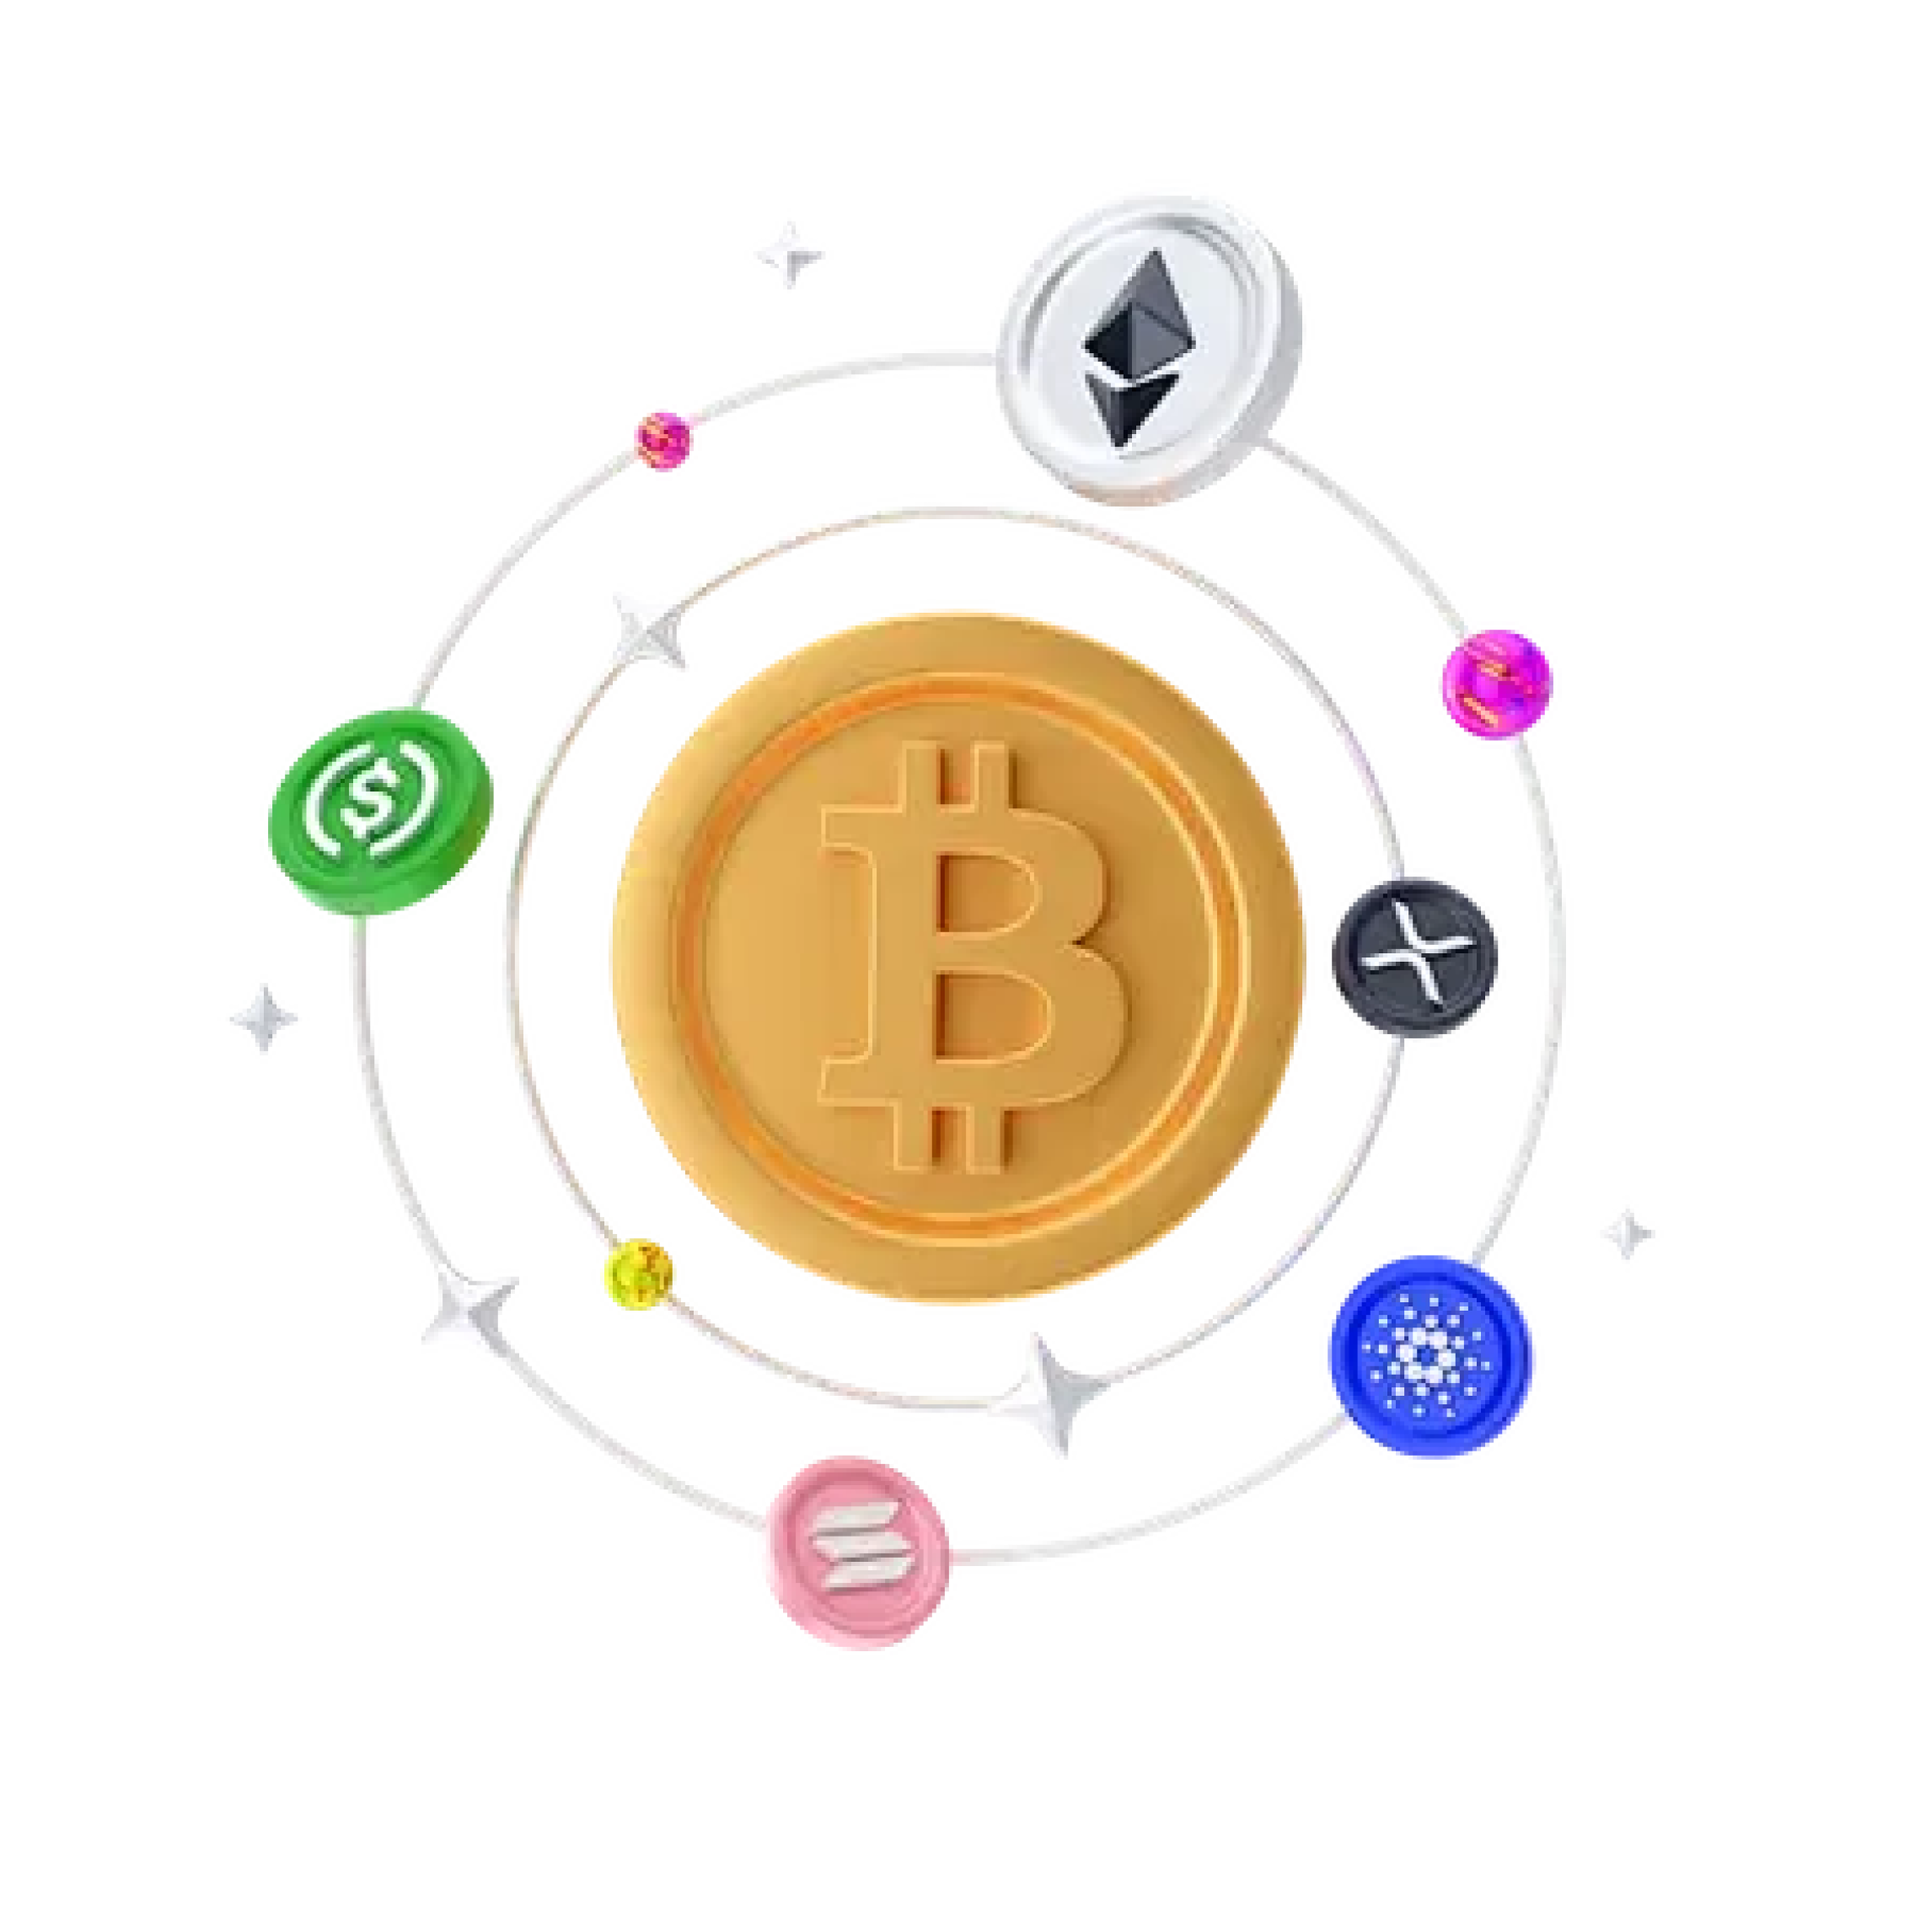
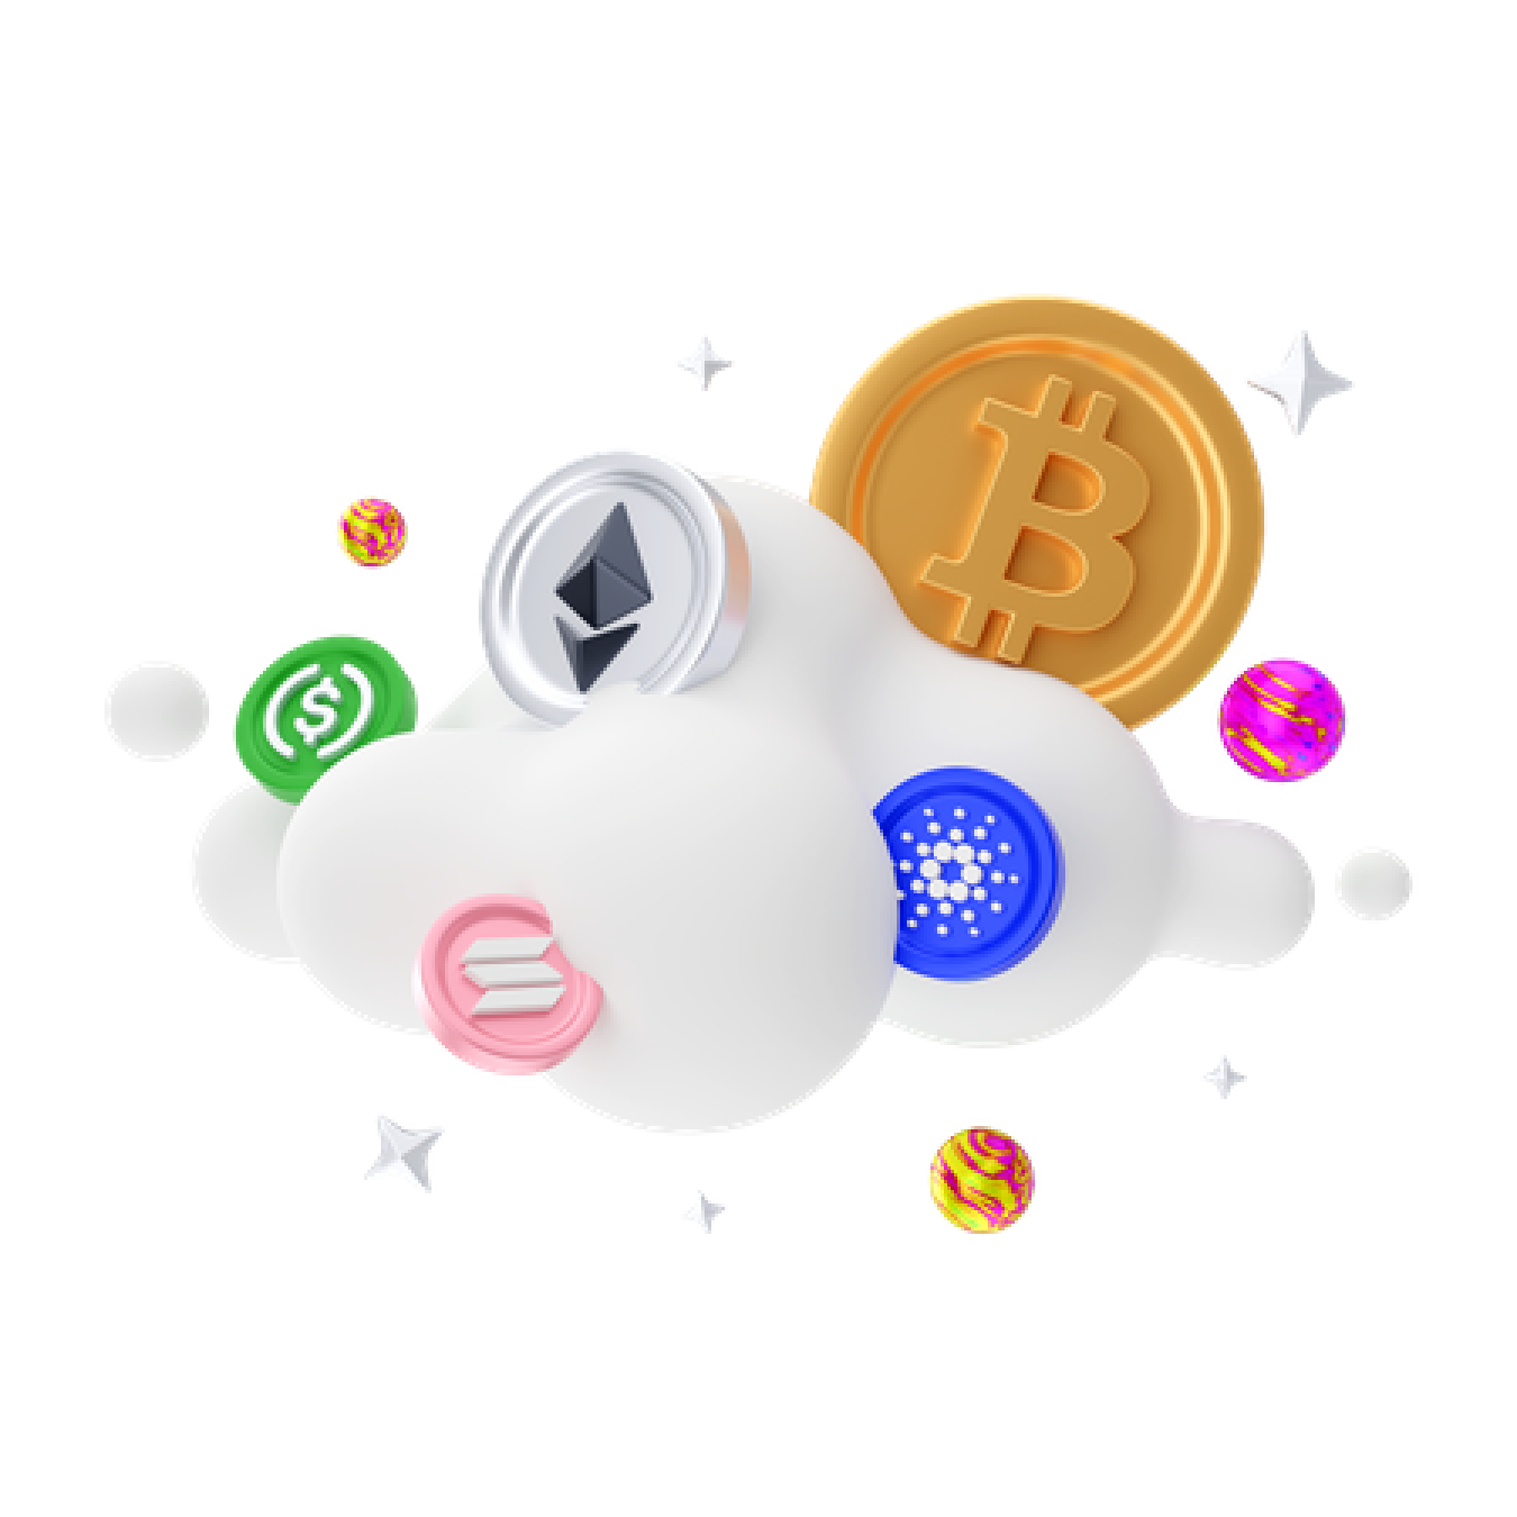
替换图片，删除无用图片

diff --git a/app/fund/moonmeme/MoonMeme.tsx b/app/fund/moonmeme/MoonMeme.tsx
@@ -44,12 +44,6 @@ export default function Page(currency: CoinPriceMarqueeCurrency) {
         }} >
           All funds
         </div>
-        {/* <Image src="/fund/topButtonLeft.png" width={168} height={56} alt="All funds" className={styles.topButtonLeft} onClick={() => {
-          sendGAEvent("cha token test", {
-            "position": "Top Button Group Left"
-          })
-          notify()
-        }} /> */}
         <div className={styles.topButtonRight} onClick={() => {
           notify()
           sendGAEvent("cha token test", {
@@ -58,12 +52,6 @@ export default function Page(currency: CoinPriceMarqueeCurrency) {
         }} >
           Buy now
         </div>
-        {/* <Image src="/fund/topButtonRight.png" width={178} height={56} alt="Buy now" className={styles.topButtonRight} onClick={() => {
-          notify()
-          sendGAEvent("cha token test", {
-            "position": "Top Button Group Right"
-          })
-        }} /> */}
       </div>
     )
   }
